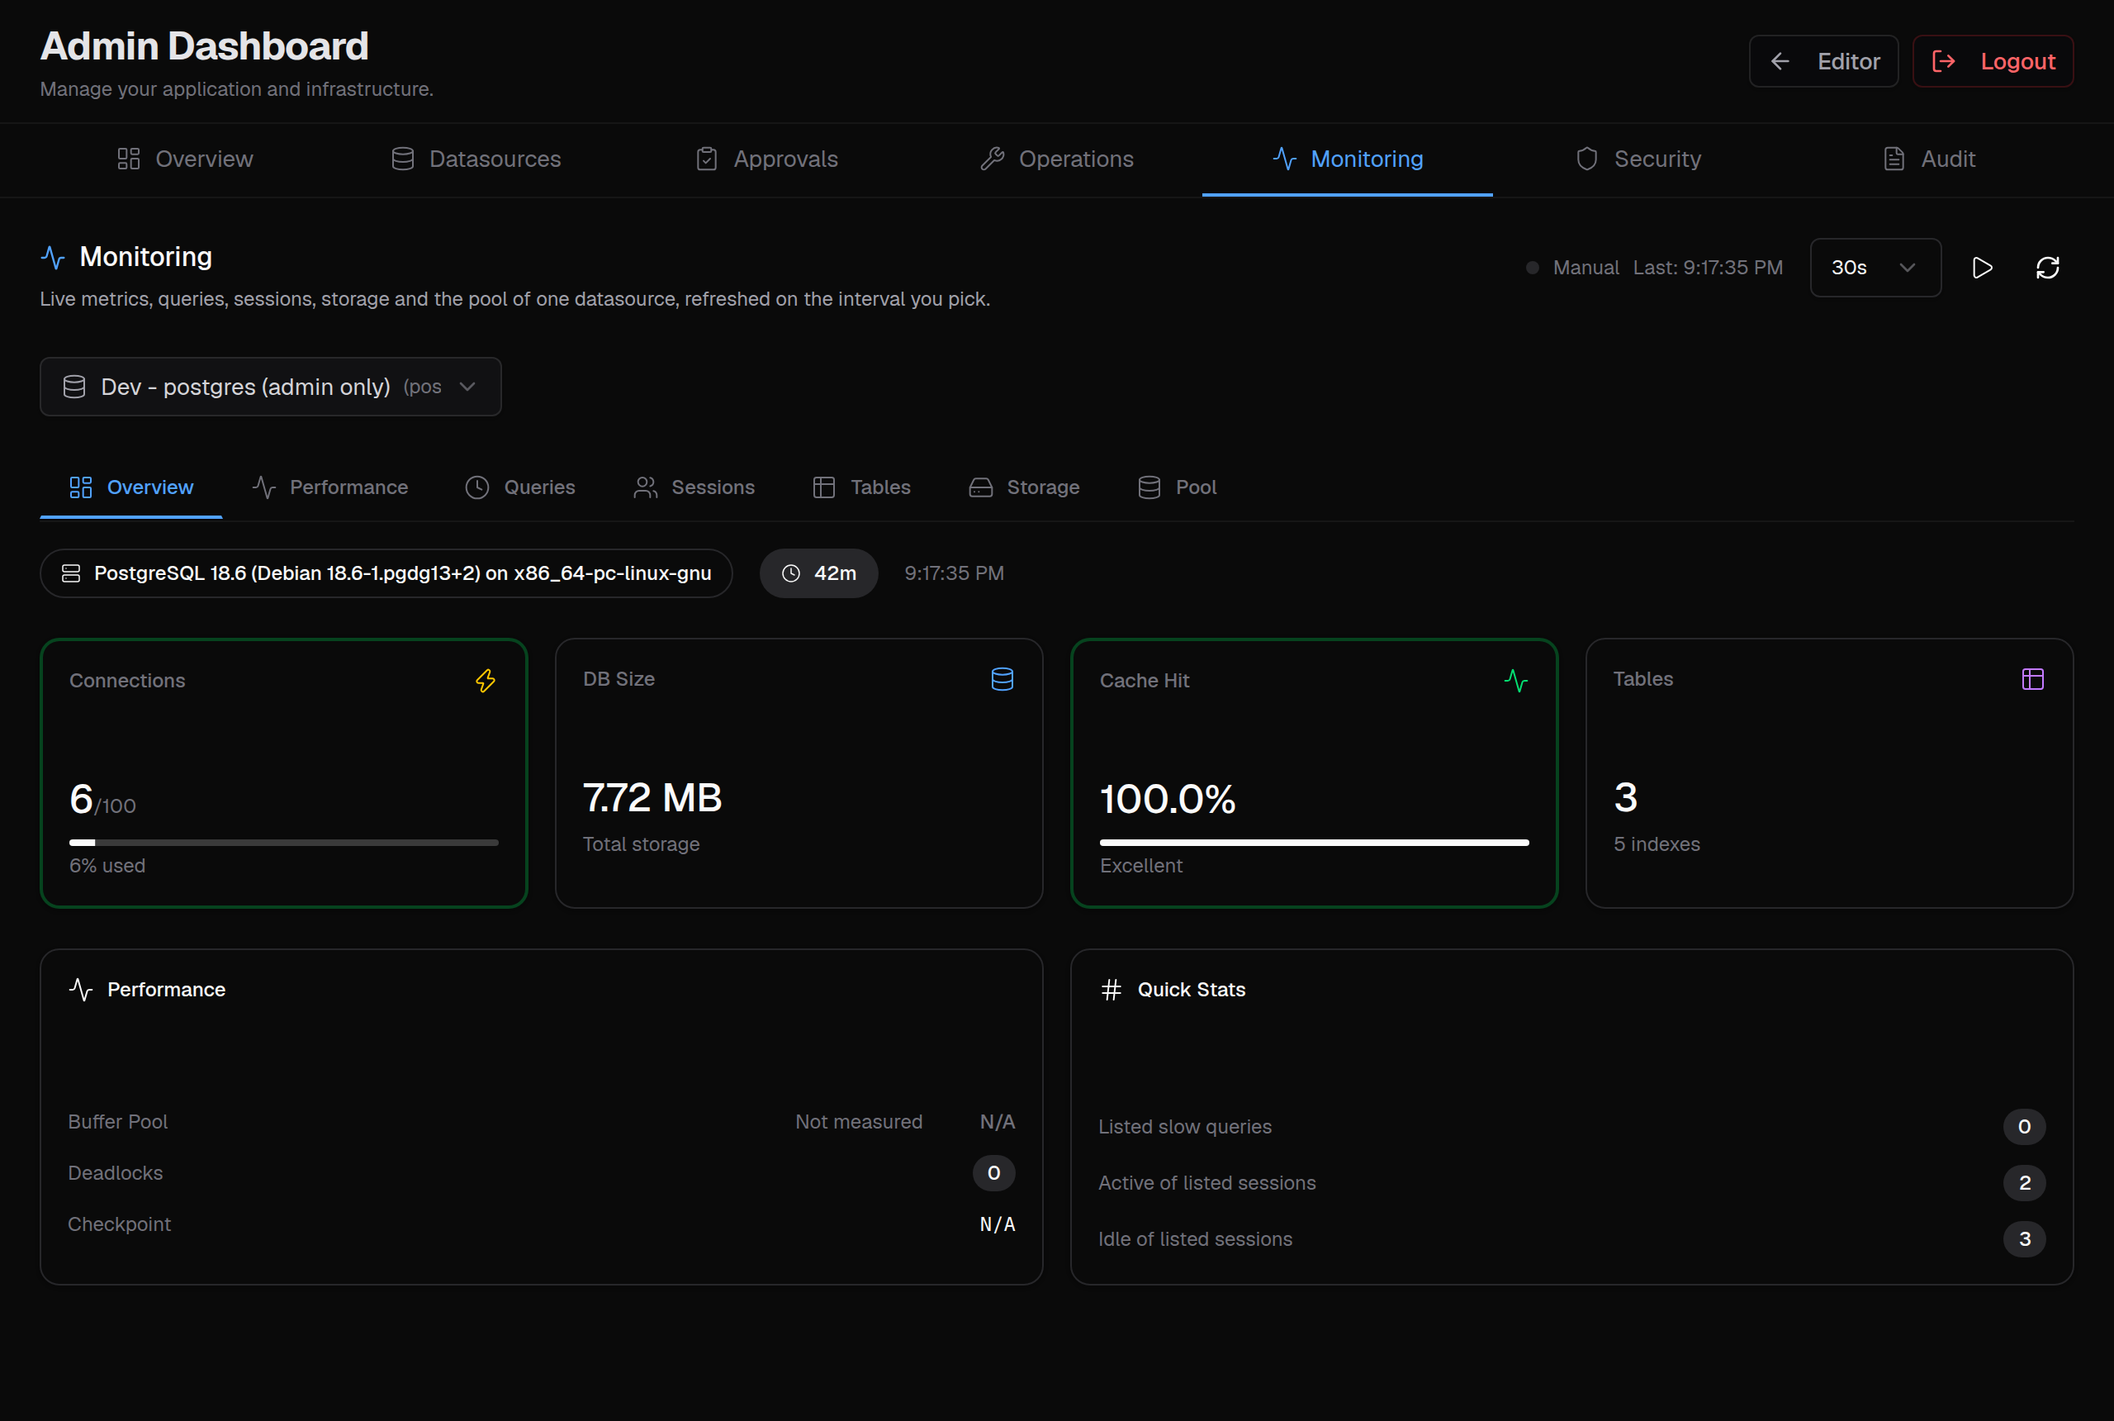
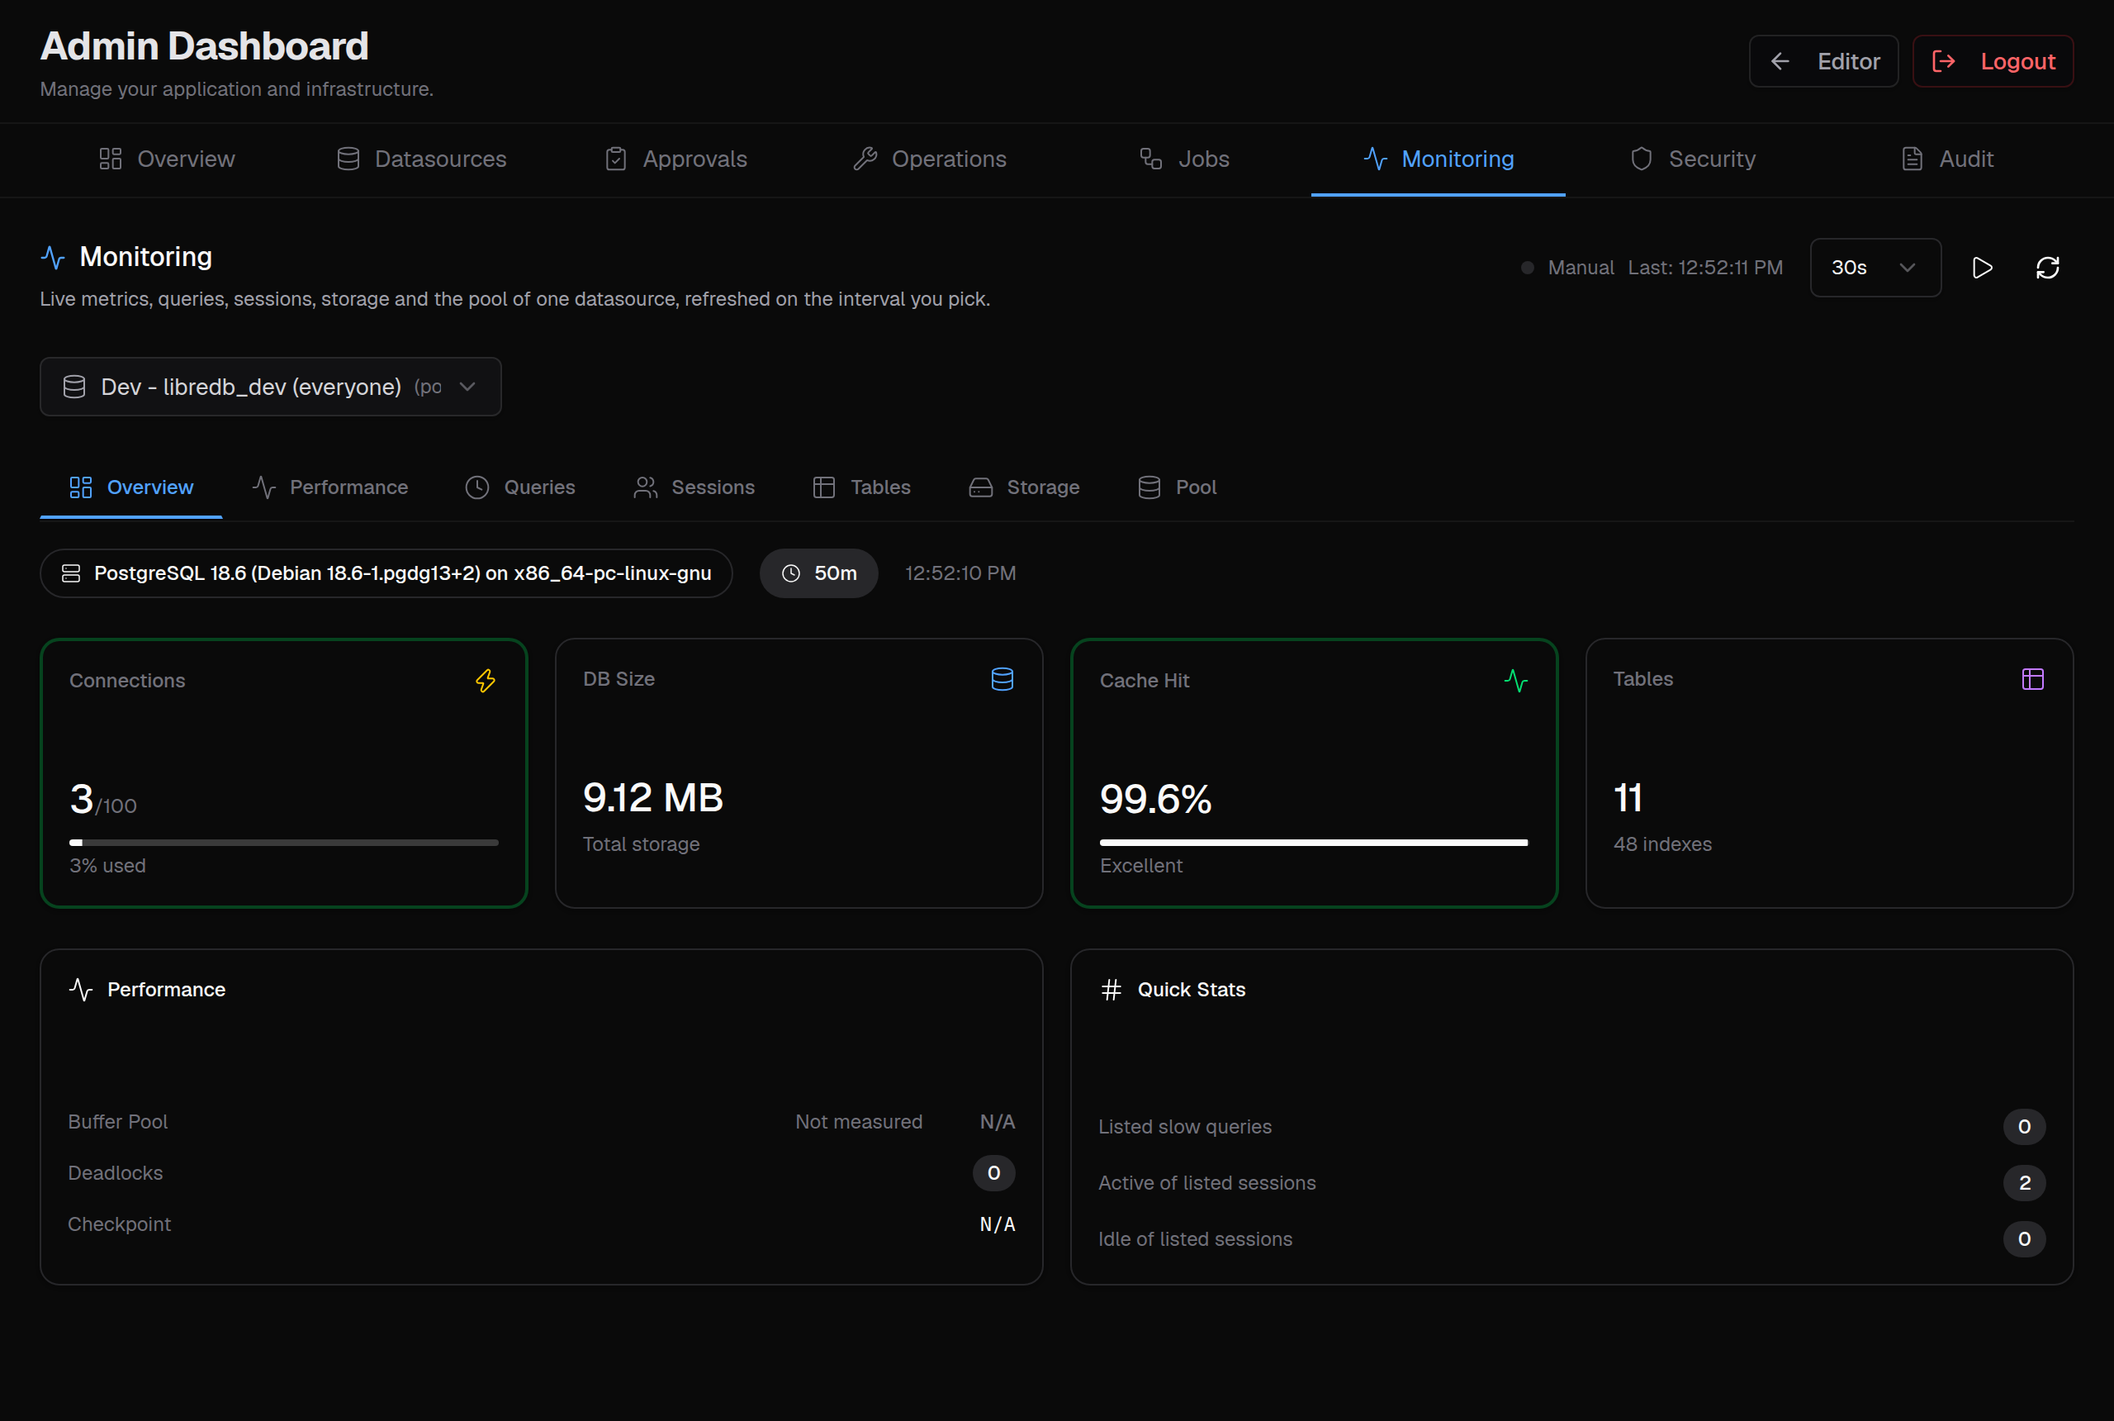
docs: the README for 0.2.1, with every page pictured
The README still introduced the product as an early snapshot with seven
governance items on top; it now says what ships - datasources declared
once, who may do what, every execution governed and audited, operations,
bots and agents apart, several of each role - and pictures every page,
the Jobs section, the Backups tab, the datasource sheet and the alerts'
channels included. The screenshot script runs a statement in the studio
before its picture, captures the new pages, and takes SHOT_BASE for a
production build on another port. The chart README's install recipe
points at a release tag's checkout instead of a registry that does not
publish this chart.

diff --git a/README.md b/README.md
@@ -21,10 +21,12 @@ One deployment, one set of datasources, single sign-on, and an audit trail of
 **every** execution — so nobody needs a database password, a bastion host, or
 Adminer, and every statement that reaches a database is attributable to a person.
 
-> **Status: early.** dbportal is a snapshot of [LibreDB Studio](https://github.com/libredb/libredb-studio)
-> 0.16.0 (MIT) with the packaging and distribution machinery removed. The editor,
-> the 16 database drivers, SSO and the Helm chart work today; the governance layer
-> described below is being built on top. See [NOTICE.md](NOTICE.md) for attribution.
+> dbportal started as a snapshot of [LibreDB Studio](https://github.com/libredb/libredb-studio)
+> 0.16.0 (MIT) with the packaging and distribution machinery removed; the editor, the 16
+> database drivers and SSO come from there ([NOTICE.md](NOTICE.md)). The governance,
+> operations and scale layers described below were built on top, and
+> [docs/CONTEXT.md](docs/CONTEXT.md) §4 records the design of each and what was
+> deliberately left out. Current release: [0.2.1](https://github.com/klinux/dbportal/releases).
 
 ## Why
 
@@ -38,50 +40,66 @@ Teams that run databases end up with the same shape of problem:
   credentials injected from a secrets manager, never typed by a person.
 
 Web IDEs solve the editor part. Access proxies solve the audit part. dbportal
-aims to be the one thing you deploy that does both for the browser use case.
+is the one thing you deploy that does both for the browser use case, and it
+runs the bots' and agents' requests through the same rules.
 
-## What works today (inherited)
+## The editor (inherited)
 
 - Browser SQL IDE (Monaco) with schema explorer, ER diagrams, schema diff,
-  EXPLAIN, monitoring dashboard and maintenance actions.
+  EXPLAIN, charts, monitoring dashboard and maintenance actions.
 - 16 engines: PostgreSQL, MySQL, Oracle, SQL Server, SQLite, libSQL, DuckDB,
   MongoDB, Redis, Couchbase, ClickHouse, Druid, Elasticsearch, OpenSearch,
   Trino, Cassandra — plus wire-compatible relatives (MariaDB, TimescaleDB,
   CockroachDB, Valkey, ScyllaDB, …).
 - OIDC single sign-on (Keycloak, Okta, Entra ID, Auth0, …) with role mapping
   from claims; local accounts with TOTP as the fallback.
-- **Managed datasources** from a YAML file, with `${ENV}` credential injection
-  and per-role visibility (`roles: ["admin"]`, `["*"]`). Credentials never
-  reach the browser.
 - SSL/TLS and SSH tunnels for every networked engine.
-- Helm chart, Docker image, `docker compose`.
 
 ## What dbportal adds
 
-Each of these is in place; [docs/CONTEXT.md](docs/CONTEXT.md) §4 records the
-design and what was deliberately left out of each.
+**Datasources, declared once.** Created by administrators only — in a YAML file or on
+the admin page — stored server-side and shared; no route accepts a connection from the
+browser. Credentials come from `${ENV}` references or from HashiCorp Vault (`vault:kv:`
+static secrets, `vault:db:` a credential issued per person with a lease), picked from a
+searchable list, never typed. SSH bastions declared once as profiles. Environments
+(production, staging, …) an administrator keeps.
 
-1. **Datasources are created by admins only, and shared.** Declared in a YAML
-   file or in the admin page, stored server-side; the request path that
-   accepted a client-supplied connection is closed.
-2. **Server-side audit of every execution** — person, datasource, duration,
-   outcome (and the statement under `AUDIT_INCLUDE_SQL`) — as structured log
-   lines and in an append-only `audit_events` table the user cannot clear.
-3. **`application_name` per person** on database sessions, so the database's
-   own logs (pgAudit, `pg_stat_activity`) show who, not the shared role.
-4. **Access rules per datasource** — `roles` (who may open) and `writeRoles`
-   (who may write), with `group:<name>` principals from the identity provider;
-   read-only sessions get a read-only pool where the engine has one.
-5. **Ephemeral credentials** — `vault:db:<mount>/<role>` has HashiCorp Vault's
-   database secrets engine issue a credential per person, with a lease;
-   `vault:kv:…` reads a static secret.
-6. **Approval flow** — `writeApproval: true` runs a write only inside a window
-   a reviewer opened, with the reviewer on the audit line.
-7. **Server-side data masking** — the rules run before the rows leave; a
-   reveal is granted per role and audited.
+**Who may do what.** Access rules per datasource: `roles` (who may open), `writeRoles`
+(who may write), `exportRoles`, with `group:<name>` principals from the identity
+provider and named roles declared once. Read-only sessions get a read-only pool.
+`application_name` per person on every database session, so the database's own logs
+name who, not the shared role. Short sessions renewed in use.
 
-Things deliberately **out of scope**: desktop apps, marketplace listings, npm
-library packaging, and any AI agent work beyond what is already here.
+**Every execution governed and audited.** One audit line per execution — person,
+datasource, duration, outcome, the statement under `AUDIT_INCLUDE_SQL` — as structured
+stdout and in an append-only table nobody can clear; read a page at a time, shipped to
+Elasticsearch, pruned by age. Write approvals with one or two reviewers, from the portal
+or from Slack's buttons. Guardrails (a `DELETE` without `WHERE`, a `DROP`, a `TRUNCATE`
+wait for a reviewer), limits per datasource (rows, timeout, concurrency), freeze windows,
+a ticket reference required where the datasource says so. Server-side masking, with a
+reveal granted per role and audited. Exports by rule, built and masked on the server.
+
+**Operations.** Runbooks: one statement declared once per datasource, run from a form.
+Backups with `pg_dump` (restore outside production; production dumps copied to a
+bucket). Seeds: a staging datasource filled from its schema with generated rows, or
+with a masked sample of another datasource. Alerts: a read on a schedule with a
+condition, fired to Slack channels picked by name or to webhooks; and alerts on the
+trail itself (a guardrail trip, an export off production, a failed backup).
+
+**Bots and agents, apart.** A bot API (`/api/v1/executions`) where a bot asks, a
+reviewer approves, the server runs and POSTs the outcome to a signed callback; an MCP
+endpoint for troubleshooting agents; both served by an `agent` role that answers only
+those two surfaces.
+
+**Built to run several of each.** Executions, alerts, seeds, exports and backups run
+through a job queue in the store, consumed by `worker` pods that scale on the queue's
+depth (KEDA); several studio replicas elect one alert-scheduler leader through a lease
+in the store; a Jobs page watches all of it. Liveness and readiness probes, a
+Prometheus exposition of the portal itself, a signed image with SBOM and provenance.
+[docs/ARCHITECTURE.md](docs/ARCHITECTURE.md) §7 draws the topology.
+
+Deliberately **out of scope**: desktop apps, marketplace listings, npm library
+packaging.
 
 ## Screenshots
 
@@ -93,19 +111,27 @@ library packaging, and any AI agent work beyond what is already here.
 | --- | --- |
 | ![Fleet health, key metrics, recent activity](docs/screenshots/admin-overview.png) | ![Shared datasources, one tab per environment](docs/screenshots/admin-datasources.png) |
 
-| Admin · Approvals | Admin · Operations |
+| Datasource sheet | Admin · Approvals |
 | --- | --- |
-| ![Write approvals waiting for a reviewer](docs/screenshots/admin-approvals.png) | ![Maintenance on one datasource](docs/screenshots/admin-operations.png) |
+| ![A datasource declared: engine, access, secrets from Vault](docs/screenshots/datasource-sheet.png) | ![Write approvals waiting for a reviewer](docs/screenshots/admin-approvals.png) |
 
-| Admin · Monitoring | Admin · Security |
+| Admin · Operations | Admin · Operations · Backups |
 | --- | --- |
-| ![Live metrics of one datasource](docs/screenshots/admin-monitoring.png) | ![Masking, access, thresholds and SSH profiles](docs/screenshots/admin-security.png) |
+| ![Maintenance, runbooks, seeds and backups on one datasource](docs/screenshots/admin-operations.png) | ![Dumps taken by a worker, restore outside production](docs/screenshots/admin-operations-backups.png) |
 
-| Admin · Audit | |
+| Admin · Jobs | Admin · Monitoring |
 | --- | --- |
-| ![Every execution and operation](docs/screenshots/admin-audit.png) | ![Alerts on a datasource, fired to channels](docs/screenshots/alerts.png) |
+| ![The queue: what waits and runs, the workers, the scheduler leader](docs/screenshots/admin-jobs.png) | ![Live metrics of one datasource](docs/screenshots/admin-monitoring.png) |
 
-Regenerate them against a running dev server with `node scripts/screenshots.mjs`
+| Admin · Security | Admin · Audit |
+| --- | --- |
+| ![Masking, environments, named roles, freezes, tokens and SSH profiles](docs/screenshots/admin-security.png) | ![Every execution and operation, paged and filtered](docs/screenshots/admin-audit.png) |
+
+| Alerts | Alerts · Channels |
+| --- | --- |
+| ![Alerts on a datasource, on a schedule](docs/screenshots/alerts.png) | ![Slack channels picked by name, webhooks](docs/screenshots/alerts-channels.png) |
+
+Regenerate them against a running server with `node scripts/screenshots.mjs`
 (see the header of that script for the variables it reads).
 
 ## Quick start
@@ -127,10 +153,12 @@ make stop         # app and database down
 
 `make help` lists the rest (`dev-bg`, `db-reset`, `status`, `check`, `test`, `coverage`).
 
-Operators: [docs/OPERATOR_GUIDE.md](docs/OPERATOR_GUIDE.md), from zero to the first datasource.
-Kubernetes: see [charts/](charts/) and [docs/HELM_CHART.md](docs/HELM_CHART.md).
+Operators: [docs/OPERATOR_GUIDE.md](docs/OPERATOR_GUIDE.md), from an empty cluster to a team.
+Kubernetes: [charts/dbportal](charts/dbportal) (three studios, workers scaled on the queue,
+the agent apart: the chart README) and [docs/HELM_CHART.md](docs/HELM_CHART.md).
+Topology: [docs/ARCHITECTURE.md](docs/ARCHITECTURE.md) §7.
 Managed datasources: [docs/SEED_CONNECTIONS.md](docs/SEED_CONNECTIONS.md).
-SSO: [docs/OIDC.md](docs/OIDC.md).
+SSO: [docs/OIDC.md](docs/OIDC.md). API: [docs/API_DOCS.md](docs/API_DOCS.md).
 
 ## Development
 

diff --git a/docs/HELM_CHART.md b/docs/HELM_CHART.md
@@ -233,7 +233,7 @@ The agent has no on-switch: the app derives whether it can run from a configured
 
 `role: agent` (docs/CONTEXT.md §4.30) writes `DBPORTAL_ROLE=agent`, and the same image then serves only the service API (`/api/v1`), the MCP endpoint (`/api/mcp`), the probes and the metrics scrape; every page, session route and admin route is a `404`. `role: worker` (§4.40) writes `DBPORTAL_ROLE=worker`: the instance serves only the probes and the scrape and runs the job queue. `keda.enabled` on that release renders a KEDA `ScaledObject` whose Prometheus trigger reads `dbportal_jobs_queued` from `/api/metrics` and keeps `keda.queuedPerReplica` queued jobs per worker (`templates/scaledobject.yaml`; refused on another role, together with the HPA, or with the queue outside PostgreSQL; the Deployment then renders no `replicas` line, so an upgrade does not reset what the scaler chose). `config.jobsWorker: "off"` on the studio release stops its own loop once workers run apart. Files a worker writes (`EXPORT_DIR`, `BACKUP_DIR`) live on a volume both releases mount, or in the bucket. `tests/unit/helm-chart-keda.test.ts` holds the render and the refusals.
 
-**The roles in one release** (`workers.enabled`, `agentRole.enabled`; chart 0.1.2): the same release renders a Deployment per role from one pod template (`templates/_pod.tpl`), so a mount, a probe or a secret reference changed once reaches every role; they share the release's ConfigMap, Secret, seed and datasource secrets. Each role Deployment carries its own name label (`app.kubernetes.io/name: dbportal-worker`, `dbportal-agent`, plus `app.kubernetes.io/component`), which is what keeps its pods out of the studio's selectors - a Deployment selector is immutable and overlapping selectors fight - and gives it a Service (`<release>-agent`), a NetworkPolicy and a scaler of its own: `keda.enabled` then targets `<release>-workers` and the HPA keeps the studio. The workers mount the release's data volume (ReadWriteMany when persistent, refused otherwise); the agent gets an emptyDir, it keeps nothing. The studio writes `JOBS_WORKER=off` for itself when workers render, unless `config.jobsWorker` says otherwise. `tests/unit/helm-chart-roles.test.ts` holds it, and that a default render is byte for byte what it was. A default render writes nothing, so a studio release is byte-for-byte what it was. Run the agent role as its **own release** - its own Deployment, Service and NetworkPolicy - pointed at the same storage backend (`STORAGE_PROVIDER`, the seed ConfigMap, the same secrets for the datasources its tokens name), and give only that release's Service to the agents. `tests/unit/helm-chart-role.test.ts` holds the env variable to the value and the schema to the two words.
+**The roles in one release** (`workers.enabled`, `agentRole.enabled`; since chart 0.1.2): the same release renders a Deployment per role from one pod template (`templates/_pod.tpl`), so a mount, a probe or a secret reference changed once reaches every role; they share the release's ConfigMap, Secret, seed and datasource secrets. Each role Deployment carries its own name label (`app.kubernetes.io/name: dbportal-worker`, `dbportal-agent`, plus `app.kubernetes.io/component`), which is what keeps its pods out of the studio's selectors - a Deployment selector is immutable and overlapping selectors fight - and gives it a Service (`<release>-agent`), a NetworkPolicy and a scaler of its own: `keda.enabled` then targets `<release>-workers` and the HPA keeps the studio. The workers mount the release's data volume (ReadWriteMany when persistent, refused otherwise); the agent gets an emptyDir, it keeps nothing. The studio writes `JOBS_WORKER=off` for itself when workers render, unless `config.jobsWorker` says otherwise. `tests/unit/helm-chart-roles.test.ts` holds it, and that a default render is byte for byte what it was. A default render writes nothing, so a studio release is byte-for-byte what it was. Run the agent role as its **own release** - its own Deployment, Service and NetworkPolicy - pointed at the same storage backend (`STORAGE_PROVIDER`, the seed ConfigMap, the same secrets for the datasources its tokens name), and give only that release's Service to the agents. `tests/unit/helm-chart-role.test.ts` holds the env variable to the value and the schema to the two words.
 
 ## Release Pipeline
 

diff --git a/charts/dbportal/README.md b/charts/dbportal/README.md
@@ -36,11 +36,18 @@ helm install libredb libredb/dbportal \
   --set secrets.adminPassword=MyAdmin123
 ```
 
-### OCI Registry Install
+Once the chart is published to a registry, the same release installs as
+`helm install libredb <registry>/dbportal --version 0.1.3` (the chart version this tag
+carries; `bun run chart:check` keeps this line and `Chart.yaml` together).
+
+### Installing from a checkout
+
+The chart is not published to a registry yet; install it from the repository at a release
+tag, whose `appVersion` is the image that tag built:
 
 ```bash
-helm install libredb oci://ghcr.io/libredb/charts/dbportal \
-  --version 0.1.3 \
+git clone --branch v0.2.1 https://github.com/klinux/dbportal
+helm install libredb ./dbportal/charts/dbportal \
   --set secrets.jwtSecret=$(openssl rand -base64 32) \
   --set secrets.adminPassword=MyAdmin123
 ```
